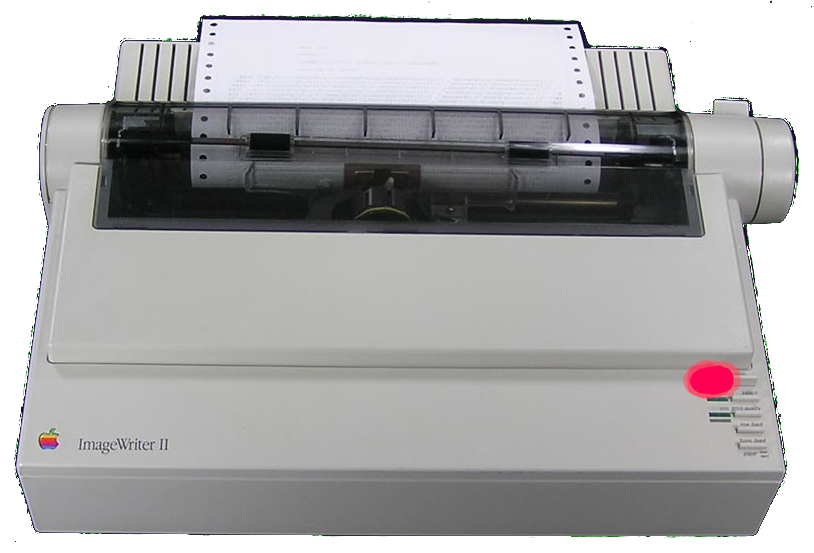
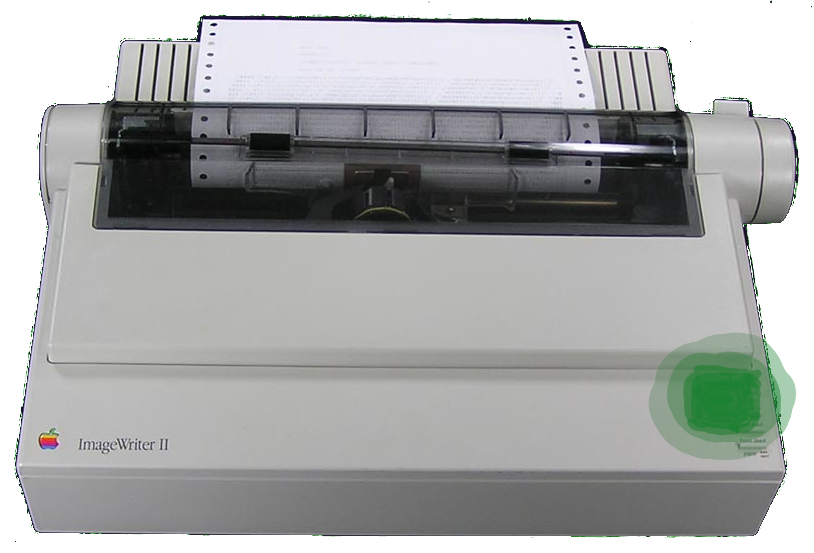
remove idle/printing change data light to green

Changed region(s): [[0.7985, 0.5841, 0.9828, 0.83]]

diff --git a/src/imagewriter.tsx b/src/imagewriter.tsx
@@ -49,7 +49,6 @@ class ImageWriter extends React.Component {
   }
 
   render() {
-    let status = this.state.printingTimeout ? 'PRINTING' : 'IDLE'
     let img1 = this.state.printingTimeout ? iwiion : iwiioff
 
     return (
@@ -58,7 +57,6 @@ class ImageWriter extends React.Component {
           onClick={this.handleClickOpen}>
           <img className="iwii" src={img1} alt="iwii" height="57px"/>
         </Button>
-        <span className={"diskStatus"}>{status}</span>
         <PrinterDialog
           open={this.state.open}
           onClose={() => {this.setState({open: false})}}
